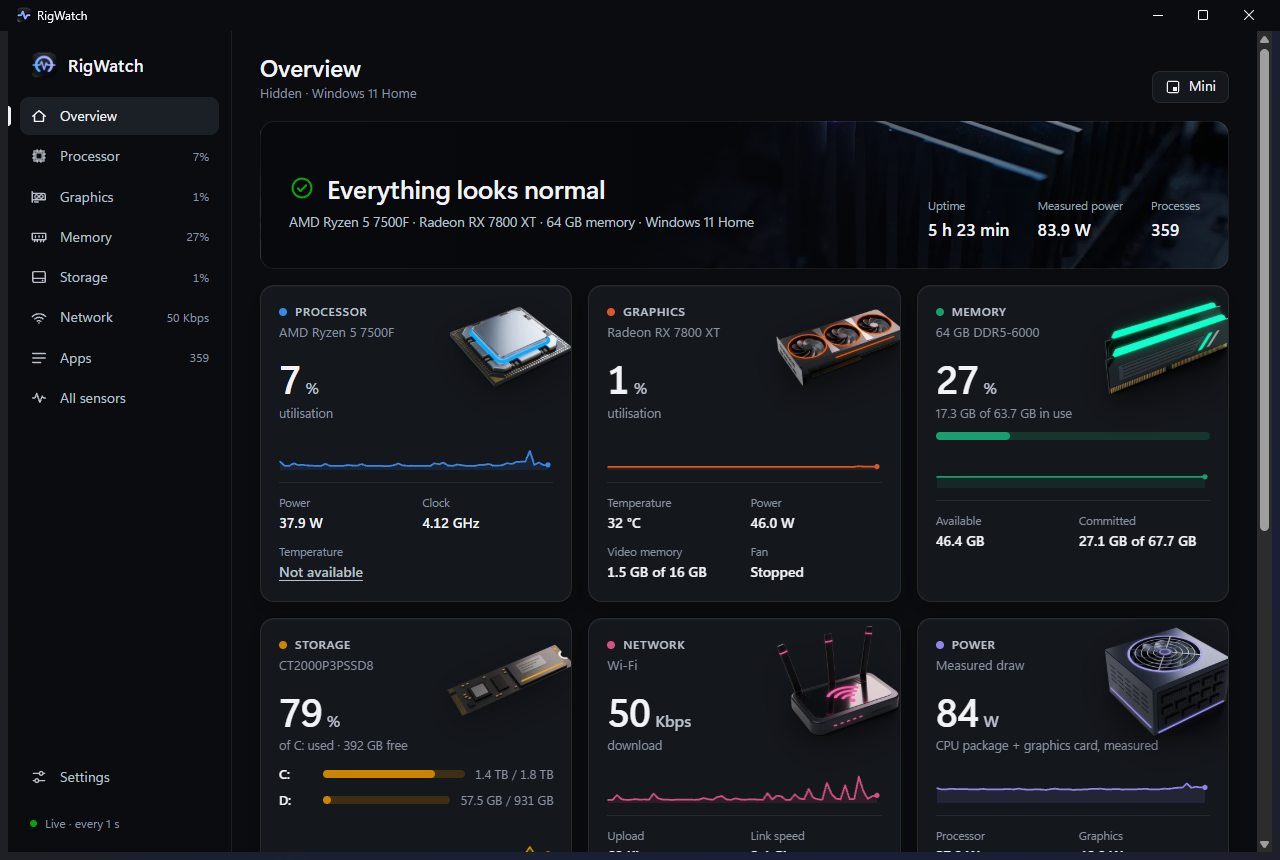
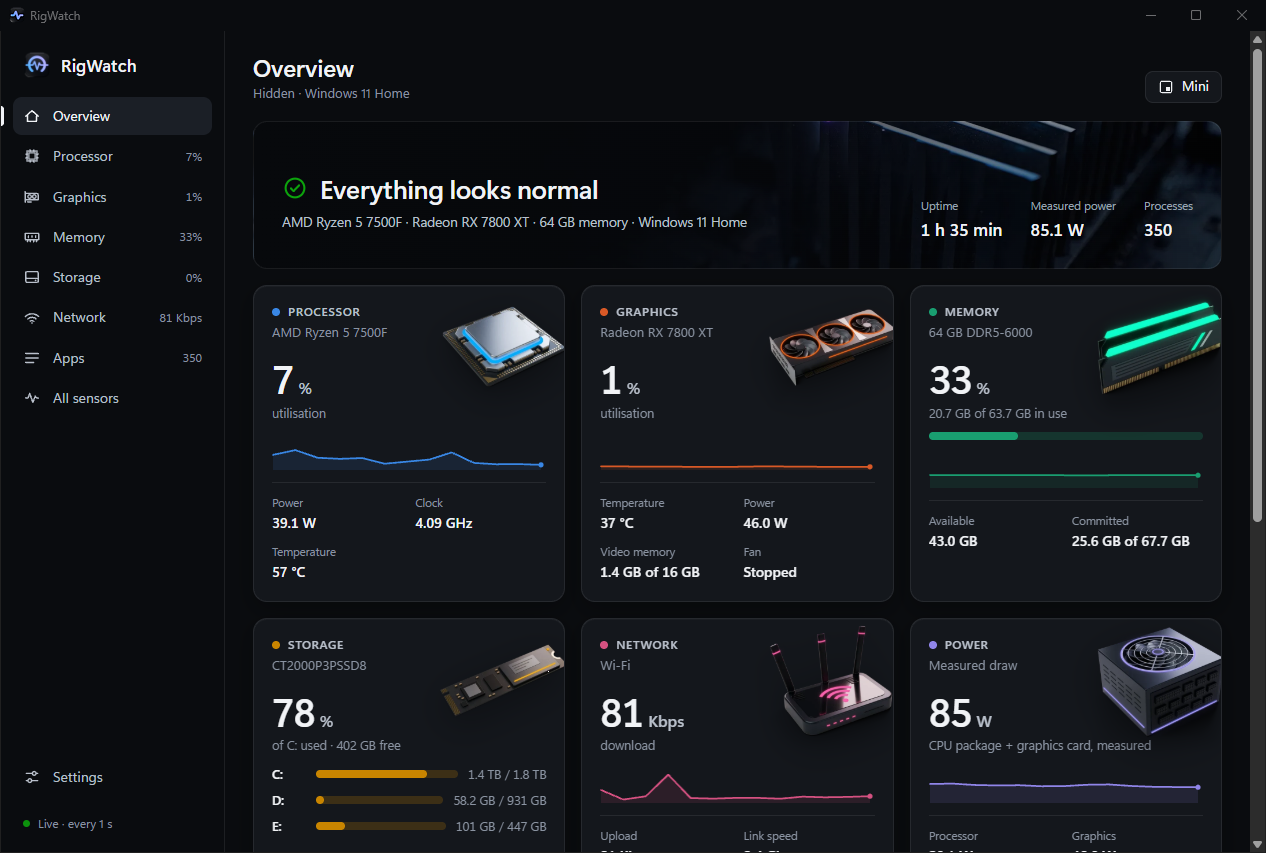
Docs: where to put the exe, update/move/remove, health verdict rules
README: a "Download and run" section with a recommended folder and why it
matters for the sensor helper; how to update, move and remove RigWatch;
what it keeps on the PC; the --port, --interval and --version flags; the
/api/settings and /api/ping endpoints; and the temperatures and levels at
which the Overview banner warns.

The Overview picture now shows the CPU temperature read by the sensor
helper instead of "Not available".

diff --git a/README.md b/README.md
@@ -15,43 +15,88 @@ and explains why. It never fills the gap with an estimate.
 > **Version 2 is a complete rewrite.** The original single-file tkinter version is kept as
 > [`v1.0`](https://github.com/danielemilushev-hub/RigWatch/tree/v1.0).
 
-## Start it
+## Download and run
 
-**Easiest:** download `RigWatch.exe` from the [latest release](https://github.com/danielemilushev-hub/RigWatch/releases/latest) and
-double-click it. No Python needed.
+RigWatch is one file, `RigWatch.exe`. There is no installer and no Python to install.
 
-**From source:** double-click **`RigWatch.bat`**. The first run creates a private Python environment
-(about a minute, needs Python 3.11+ and an internet connection) and fetches the sensor engine used for
-CPU temperature (about 3 MB); after that it opens straight away.
+1. Download **`RigWatch.exe`** from the [latest release](https://github.com/danielemilushev-hub/RigWatch/releases/latest).
+2. Put it in a folder of its own where it will stay, for example **`C:\Program Files\RigWatch`**.
+   Windows asks for administrator permission to create the folder and to copy the exe into it; click
+   Continue.
+   [Why the folder matters](#why-the-folder-matters).
+3. Double-click it. The exe is not code-signed, so the first time Windows SmartScreen may show
+   "Windows protected your PC": click **More info → Run anyway**. Some antivirus tools are also wary of
+   unsigned single-file apps.
+4. Optional: right-click the exe → **Send to → Desktop (create shortcut)**, or turn on
+   **Settings → Start with Windows**.
+5. Optional, for CPU temperature, fans and voltages: install the free [PawnIO](https://pawnio.eu) driver,
+   then turn on **Settings → Sensors** ([details](#cpu-temperature-case-fans-and-voltages)).
 
-Optional: run `tools\create-shortcut.ps1` to put a RigWatch shortcut on your desktop.
-
-### Standalone RigWatch.exe
-
-`RigWatch.exe` is a single file that runs on Windows 10/11 PCs **without Python installed**. Copy it
-anywhere and double-click it. It needs the Microsoft Edge WebView2 runtime, which is part of
+It runs on 64-bit Windows 10 and 11 and needs the Microsoft Edge WebView2 runtime, which is part of
 Windows 11 and present on almost every up-to-date Windows 10 PC.
 
-Build it yourself (the result lands in `dist\`):
+Using it on another PC is the same steps. Settings are kept per PC, so a new PC starts with the
+defaults.
+
+### Why the folder matters
+
+- The [sensor helper](#cpu-temperature-case-fans-and-voltages) runs with administrator rights from the
+  folder RigWatch is in. In `C:\Program Files` only administrators can change files, so nothing else can
+  use the helper to gain those rights. Downloads, the Desktop and USB sticks do not give that protection.
+- **Start with Windows** points at the exe where it is. A copy on a USB stick only starts if the stick is
+  plugged in when you sign in.
+- If you never turn on the sensor helper, any folder works.
+
+### Update, move or remove
+
+- **Update:** close RigWatch (close its window, or right-click the taskbar strip → Quit RigWatch), then
+  replace `RigWatch.exe` with the new one in the same folder. If the sensor helper is on, wait half a
+  minute first: it closes about 25 seconds after RigWatch, and until then Windows reports the file as in
+  use. Settings, Start with Windows and the sensor helper carry on as before.
+- **Move:** Start with Windows follows the exe the next time you open it from its new place. The sensor
+  helper does not: turn it off and on again under Settings → Sensors.
+- **Remove:** first turn off **Settings → Sensors** and **Settings → Start with Windows** (this removes the
+  scheduled task and the start-up entry), close RigWatch, then delete the exe and the
+  `%APPDATA%\RigWatch` folder. PawnIO, if you installed it only for RigWatch, has its own uninstaller in
+  `C:\Program Files\PawnIO`.
+
+### What it keeps on the PC
+
+| What | Where | When |
+|---|---|---|
+| Settings, window data, and `rigwatch.log` if it ever fails to start | `%APPDATA%\RigWatch` | Always |
+| Start-up entry | Your account's start-up list (Task Manager → Startup apps) | Only while Start with Windows is on |
+| Scheduled task "RigWatch Sensor Helper" | Task Scheduler | Only while the sensor helper is on |
+
+Nothing else: no service, no driver of its own, no files next to the exe. While it runs, the exe
+unpacks itself into a temporary folder that is removed again when it closes.
+
+### Run from source
+
+Double-click **`RigWatch.bat`**. The first run creates a private Python environment (about a minute,
+needs Python 3.11+ and an internet connection) and fetches the sensor engine used for CPU temperature
+(about 3 MB); after that it opens straight away. Optional: run `tools\create-shortcut.ps1` to put a
+RigWatch shortcut on your desktop.
+
+Build the standalone exe yourself (the result lands in `dist\`):
 
 ```powershell
 powershell -ExecutionPolicy Bypass -File tools\build-exe.ps1
 ```
 
-The exe is not code-signed, so on another PC Windows SmartScreen may show "Windows protected your PC"
-the first time (More info → Run anyway), and some antivirus tools are suspicious of unsigned
-single-file apps. Signing it with a code-signing certificate removes both.
+### Command line
 
-The command-line flags below work with the exe too (`RigWatch.exe --json`, `RigWatch.exe --server`, …).
-
-From a terminal:
+The same flags work with the exe (`RigWatch.exe --json`) and from source:
 
 ```powershell
-.\.venv\Scripts\python.exe -m rigwatch            # the app window
-.\.venv\Scripts\python.exe -m rigwatch --browser  # open in your browser instead
-.\.venv\Scripts\python.exe -m rigwatch --server   # only the local service (http://127.0.0.1:47115)
-.\.venv\Scripts\python.exe -m rigwatch --json     # print one reading as JSON and exit
-.\.venv\Scripts\python.exe -m rigwatch --minimized  # start minimised, showing only the taskbar strip
+.\.venv\Scripts\python.exe -m rigwatch               # the app window
+.\.venv\Scripts\python.exe -m rigwatch --browser     # open in your browser instead
+.\.venv\Scripts\python.exe -m rigwatch --server      # only the local service (http://127.0.0.1:47115)
+.\.venv\Scripts\python.exe -m rigwatch --json        # print one reading as JSON and exit
+.\.venv\Scripts\python.exe -m rigwatch --minimized   # start minimised, showing only the taskbar strip
+.\.venv\Scripts\python.exe -m rigwatch --port 47200  # use another local port
+.\.venv\Scripts\python.exe -m rigwatch --interval 2  # seconds between readings, for this run
+.\.venv\Scripts\python.exe -m rigwatch --version     # print the version
 ```
 
 ## What you get
@@ -68,10 +113,25 @@ From a terminal:
 | All sensors | Every reading with min / max / average, CSV export, and where each number comes from |
 | Mini | Compact always-on-top panel for gaming or working full-screen |
 
-Dark and light themes, °C or °F, refresh rate from twice a second to every 5 seconds, and a switch
-that hides the computer name and network addresses for screenshots and streaming.
+Dark and light themes, °C or °F, refresh rate from twice a second to every 5 seconds, keep the window
+on top, and a switch that hides the computer name and network addresses for screenshots and streaming.
 
 ![Graphics page](docs/graphics.png)
+
+### Health verdict
+
+The banner on the Overview says "Everything looks normal" until one of these is true:
+
+| Component | Warning | Critical |
+|---|---|---|
+| Processor | 85 °C | 95 °C |
+| Graphics card | 85 °C, or hotspot 98 °C; video memory 97 % full | 95 °C, or hotspot 108 °C |
+| Memory | 88 % in use | 95 % in use |
+| Drive | The drive's own warning temperature (70 °C if it reports none); 30 % of rated life left; any media errors | The drive's own critical temperature (80 °C if none); 10 % of rated life left; the drive reports a health warning |
+| Volume | Less than 5 % free | |
+| Battery | 10 % and not plugged in | |
+
+A reading that is not available never raises a warning.
 
 ### Minimised: numbers on the taskbar
 
@@ -209,6 +269,8 @@ The service listens on this computer only (`127.0.0.1:47115`; a free port is use
 | `GET /api/sensors.csv`, `/api/history.csv` | CSV exports |
 | `GET /api/helper` | State of the sensor helper (off, starting, on, driver missing, …) |
 | `GET /api/startup` | Whether RigWatch starts with Windows (`on`, `off`, or `blocked` in Task Manager) |
+| `GET /api/settings` | Current settings |
+| `GET /api/ping` | `{"app": "rigwatch", "version": …}`, to check that RigWatch is running |
 
 Layout:
 
